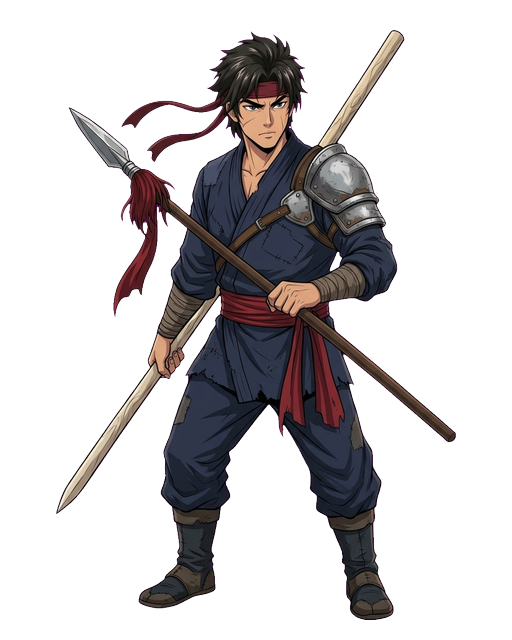
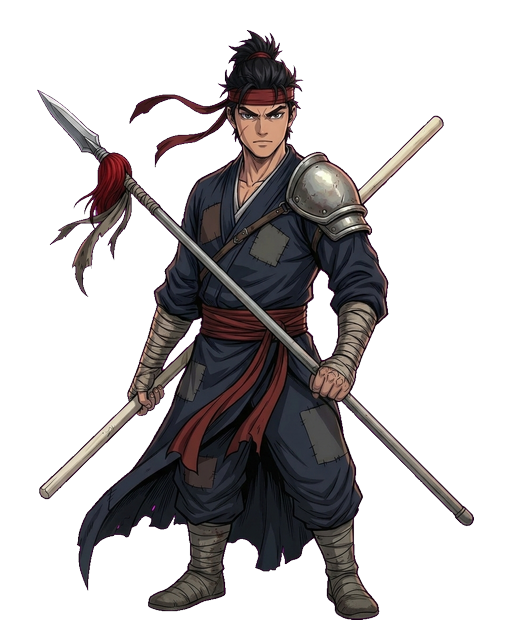
四职业选人全身像 v9（与新封面 / 立绘同画风；去紫边）（全量测试运行中）
Claude-Session: https://claude.ai/code/session_01AdrMLJK1Rs8dRqXGtPMhfy

diff --git a/tools/process_yangjia_v3_art.py b/tools/process_yangjia_v3_art.py
@@ -10,8 +10,14 @@ V3 = ROOT / "assets" / "source" / "yangjiajiang_v3"
 V8 = ROOT / "assets" / "source" / "yangjiajiang_v8"     # 第八版：武者成年二次元重画（有就优先）
 
 
+V9 = ROOT / "assets" / "source" / "charselect_v9"        # 第九版：四职业选人全身像（与封面同画风）
+
+
 def pick(name):
-    return V8 / name if (V8 / name).exists() else V3 / name
+    for d in (V9, V8):
+        if (d / name).exists():
+            return d / name
+    return V3 / name
 
 
 def main():
